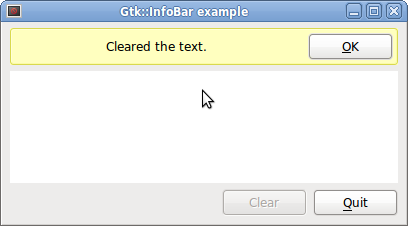
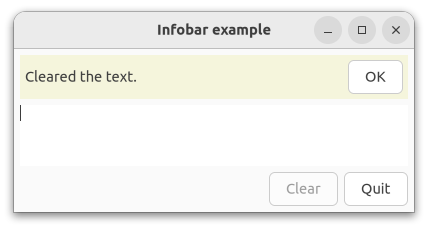
Infobar example: Don't use deprecated Gtk::InfoBar

diff --git a/examples/book/infobar/examplewindow.cc b/examples/book/infobar/examplewindow.cc
@@ -15,23 +15,36 @@
  */
 
 #include "examplewindow.h"
+#include <iostream>
+
+// The Gtk::InfoBar widget is deprecated since gtk/gtkmm 4.10.
+// A Box with a Label and Button is often a good replacement.
+// If you don't care about its background color, it's even easier
+// than the InfoBar replacement in this example program.
 
 ExampleWindow::ExampleWindow()
 : m_VBox(Gtk::Orientation::VERTICAL, 6),
+  m_InfoBar(Gtk::Orientation::HORIZONTAL, 6),
+  m_Button_OK("_OK", true),
+  m_ButtonBox(Gtk::Orientation::HORIZONTAL, 6),
   m_Button_Quit("_Quit", true),
   m_Button_Clear("_Clear", true)
 {
-  set_title("Gtk::InfoBar example");
+  set_title("Infobar example");
   set_default_size(400, 200);
 
   m_VBox.set_margin(6);
   set_child(m_VBox);
 
   // Add the message label to the InfoBar:
-  m_InfoBar.add_child(m_Message_Label);
+  m_InfoBar.append(m_Message_Label);
+  m_Message_Label.set_margin_start(5);
+  m_Message_Label.set_hexpand(true);
+  m_Message_Label.set_halign(Gtk::Align::START);
 
   // Add an ok button to the InfoBar:
-  m_InfoBar.add_button("_OK", 0);
+  m_InfoBar.append(m_Button_OK);
+  m_Button_OK.set_margin(5);
 
   // Add the InfoBar to the vbox:
   m_VBox.append(m_InfoBar);
@@ -40,7 +53,7 @@ ExampleWindow::ExampleWindow()
   m_refTextBuffer = Gtk::TextBuffer::create();
   m_TextView.set_buffer(m_refTextBuffer);
 
-  // Add the TreeView, inside a ScrolledWindow:
+  // Add the TextView, inside a ScrolledWindow:
   m_ScrolledWindow.set_child(m_TextView);
 
   // Show the scrollbars only when they are necessary:
@@ -54,13 +67,12 @@ ExampleWindow::ExampleWindow()
 
   m_ButtonBox.append(m_Button_Clear);
   m_ButtonBox.append(m_Button_Quit);
-  m_ButtonBox.set_spacing(6);
   m_Button_Clear.set_hexpand(true);
   m_Button_Clear.set_halign(Gtk::Align::END);
 
   // Connect signals:
-  m_InfoBar.signal_response().connect(sigc::mem_fun(*this,
-              &ExampleWindow::on_infobar_response) );
+  m_Button_OK.signal_clicked().connect(sigc::mem_fun(*this,
+              &ExampleWindow::on_infobar_ok) );
   m_Button_Quit.signal_clicked().connect(sigc::mem_fun(*this,
               &ExampleWindow::on_button_quit) );
   m_Button_Clear.signal_clicked().connect(sigc::mem_fun(*this,
@@ -70,6 +82,7 @@ ExampleWindow::ExampleWindow()
 
   // Keep the InfoBar hidden until a message needs to be shown:
   m_InfoBar.set_visible(false);
+  set_infobar_background();
 
   // Make the clear button insensitive until text is typed in the buffer.  When
   // the button is sensitive and it is pressed, the InfoBar is displayed with a
@@ -81,7 +94,7 @@ ExampleWindow::~ExampleWindow()
 {
 }
 
-void ExampleWindow::on_infobar_response(int)
+void ExampleWindow::on_infobar_ok()
 {
   // Clear the message and hide the info bar:
   m_Message_Label.set_text("");
@@ -97,11 +110,46 @@ void ExampleWindow::on_button_clear()
 {
   m_refTextBuffer->set_text("");
   m_Message_Label.set_text("Cleared the text.");
-  m_InfoBar.set_message_type(Gtk::MessageType::INFO);
   m_InfoBar.set_visible(true);
 }
 
 void ExampleWindow::on_textbuffer_changed()
 {
   m_Button_Clear.set_sensitive(m_refTextBuffer->size() > 0);
+}
+
+void ExampleWindow::set_infobar_background()
+{
+  // Concerning color in CSS files, see https://www.w3.org/TR/css-color-3.
+  const std::string css = "#infobarbox { background-color: beige; }";
+
+  m_InfoBar.set_name("infobarbox");
+  auto css_provider = Gtk::CssProvider::create();
+  Gtk::StyleProvider::add_provider_for_display(
+    m_InfoBar.get_display(), css_provider, GTK_STYLE_PROVIDER_PRIORITY_APPLICATION);
+
+  css_provider->load_from_data(css);
+  css_provider->signal_parsing_error().connect(
+    sigc::mem_fun(*this, &ExampleWindow::on_parsing_error));
+}
+
+void ExampleWindow::on_parsing_error(const Glib::RefPtr<const Gtk::CssSection>& section,
+  const Glib::Error& error)
+{
+  std::cerr << "on_parsing_error(): " << error.what() << std::endl;
+  if (section)
+  {
+    const auto file = section->get_file();
+    if (file)
+    {
+      std::cerr << "  URI = " << file->get_uri() << std::endl;
+    }
+
+    auto start_location = section->get_start_location();
+    auto end_location = section->get_end_location();
+    std::cerr << "  start_line = " << start_location.get_lines()+1
+              << ", end_line = " << end_location.get_lines()+1 << std::endl;
+    std::cerr << "  start_position = " << start_location.get_line_chars()
+              << ", end_position = " << end_location.get_line_chars() << std::endl;
+  }
 }

diff --git a/examples/book/infobar/examplewindow.h b/examples/book/infobar/examplewindow.h
@@ -23,14 +23,18 @@ class ExampleWindow : public Gtk::Window
 {
 public:
   ExampleWindow();
-  virtual ~ExampleWindow();
+  ~ExampleWindow() override;
 
 protected:
   //Signal handlers:
-  void on_infobar_response(int response);
+  void on_infobar_ok();
   void on_button_quit();
   void on_button_clear();
   void on_textbuffer_changed();
+  void on_parsing_error(const Glib::RefPtr<const Gtk::CssSection>& section,
+    const Glib::Error& error);
+
+  void set_infobar_background();
 
   //Child widgets:
   Gtk::Box m_VBox;
@@ -40,11 +44,13 @@ protected:
 
   Glib::RefPtr<Gtk::TextBuffer> m_refTextBuffer;
 
-  Gtk::InfoBar m_InfoBar;
+  Gtk::Box m_InfoBar;
   Gtk::Label m_Message_Label;
+  Gtk::Button m_Button_OK;
 
   Gtk::Box m_ButtonBox;
-  Gtk::Button m_Button_Quit, m_Button_Clear;
+  Gtk::Button m_Button_Quit;
+  Gtk::Button m_Button_Clear;
 };
 
 #endif //GTKMM_EXAMPLEWINDOW_H
